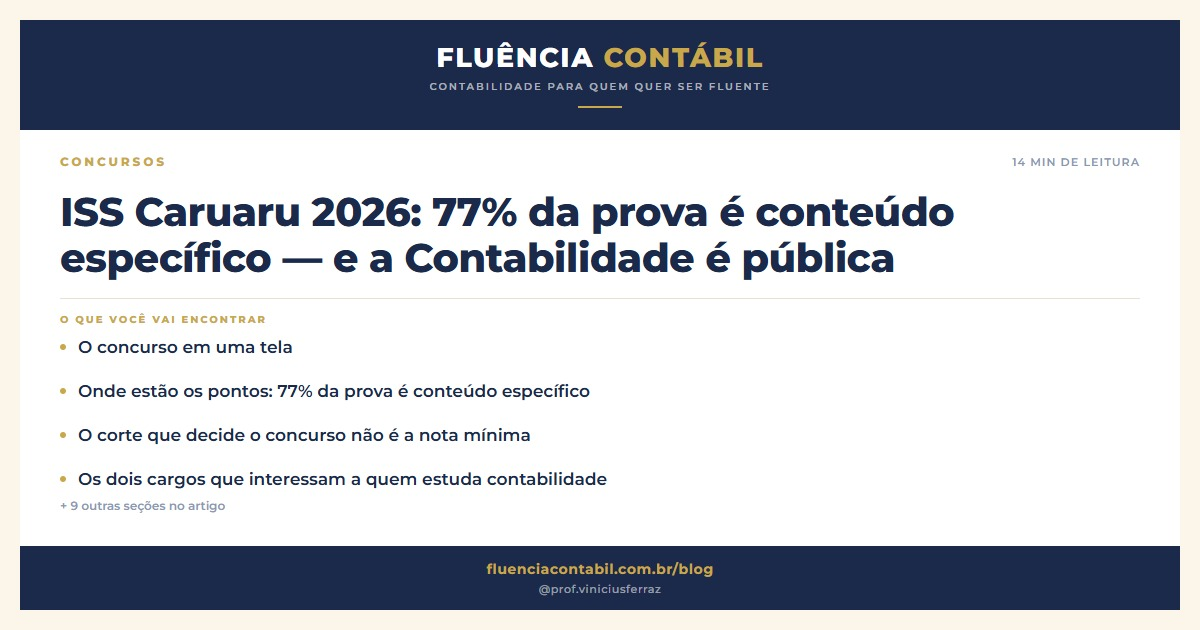
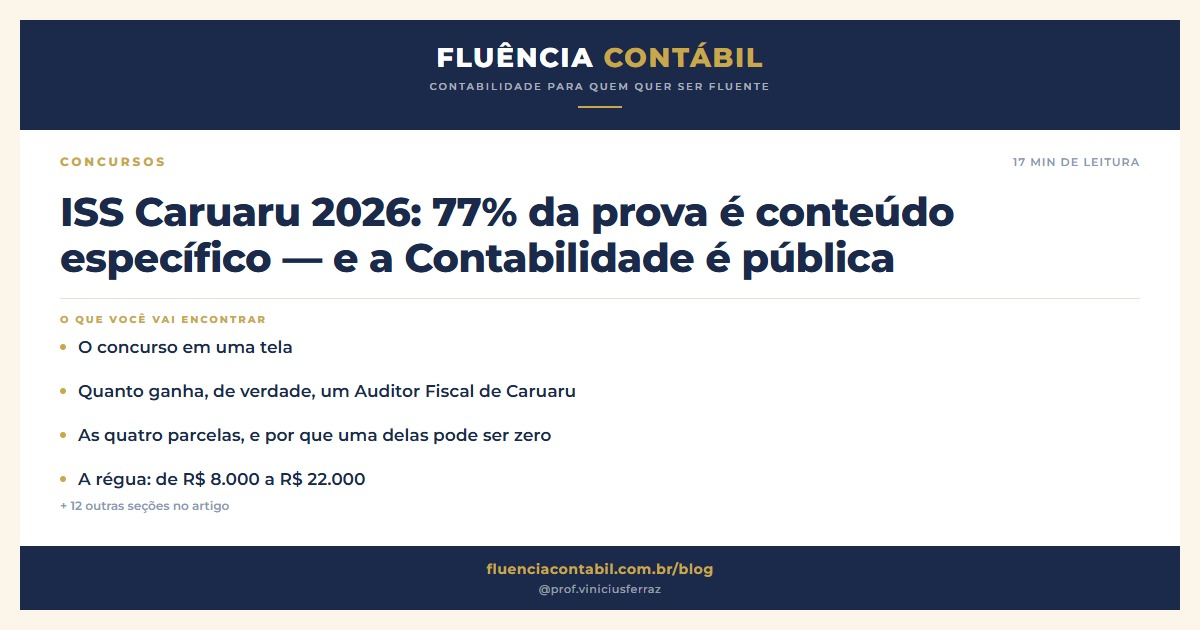
feat(blog): acrescenta ao post do ISS Caruaru a remuneracao real do cargo
O edital garante R$ 6.000 de vencimento "acrescido das gratificacoes" e nao diz
quanto elas somam. Fomos a folha de pagamento publicada e a legislacao municipal.

Tres secoes novas (+722 palavras, 14 -> 17 min):

- "Quanto ganha, de verdade, um Auditor Fiscal de Caruaru": os 4 auditores em
  exercicio recebem R$ 22.000, com rubrica explicita de "desconto de excedente
  de teto" na folha. R$ 22.000 e o subsidio do Prefeito, fixado pela Lei
  municipal 6.987/2023 — pelo art. 37, XI, da CF, o teto de todo servidor
  municipal.
- "As quatro parcelas": vencimento (art. 21 da LC 087/2021 na redacao da
  LC 154/2025), PPAFT (art. 22 + Decreto 082/2025), PPRCT (art. 23) e GAEF
  (art. 15 da LC 154/2025), cada uma com base legal e regra de calculo.
- "A regua: de R$ 8.000 a R$ 22.000": a escala do art. 22 aplicada ao
  vencimento inicial. Quem nao cumpre a Tarefa Fiscal Minima recebe PPAFT zero;
  quem bate a meta ja chega ao teto no primeiro ano.

A apuracao passou por review adversarial em tres lentes (folha, lei e
inferencias) antes de virar texto, e o review corrigiu quatro numeros que
estavam errados na primeira versao — inclusive o piso, que nao e R$ 13.460 e
sim R$ 8.000.

O post nao afirma remuneracao futura: a Portaria da Secretaria da Fazenda com
as tabelas de pontuacao (art. 55 do Decreto 082/2025) nao foi localizada, e e
ela que decide onde o auditor cai dentro da regua. O texto diz isso.

Tambem entram: o alerta de que "R$ 22 mil" e teto de quem esta ha tres anos no
[…]

Changed region(s): [[0.0617, 0.6635, 0.4625, 0.7238], [0.0617, 0.754, 0.5242, 0.8143], [0.0617, 0.6032, 0.4933, 0.6333]]

diff --git a/blog.html b/blog.html
@@ -303,10 +303,10 @@ height="0" width="0" style="display:none;visibility:hidden"></iframe></noscript>
     <div class="featured-body">
       <span class="cat-pill cat-concursos">Concursos</span>
       <h2 itemprop="headline">ISS Caruaru 2026: 77% da prova é conteúdo específico</h2>
-      <p itemprop="description">Vinte vagas e prova em 29 de novembro. Conhecimentos Específicos vale 100 dos 130 pontos, o corte da dissertativa é de 50 nomes — e a contabilidade cobrada é a do setor público.</p>
+      <p itemprop="description">Vinte vagas e prova em 29 de novembro. Conhecimentos Específicos vale 100 dos 130 pontos, o corte da dissertativa é de 50 nomes — e a folha da Prefeitura mostra o que o cargo paga de verdade.</p>
       <div class="card-meta">
         <time datetime="2026-08-07">7 ago 2026</time>
-        <span>14 min de leitura</span>
+        <span>17 min de leitura</span>
       </div>
       <span class="read-more">Ler artigo →</span>
     </div>
